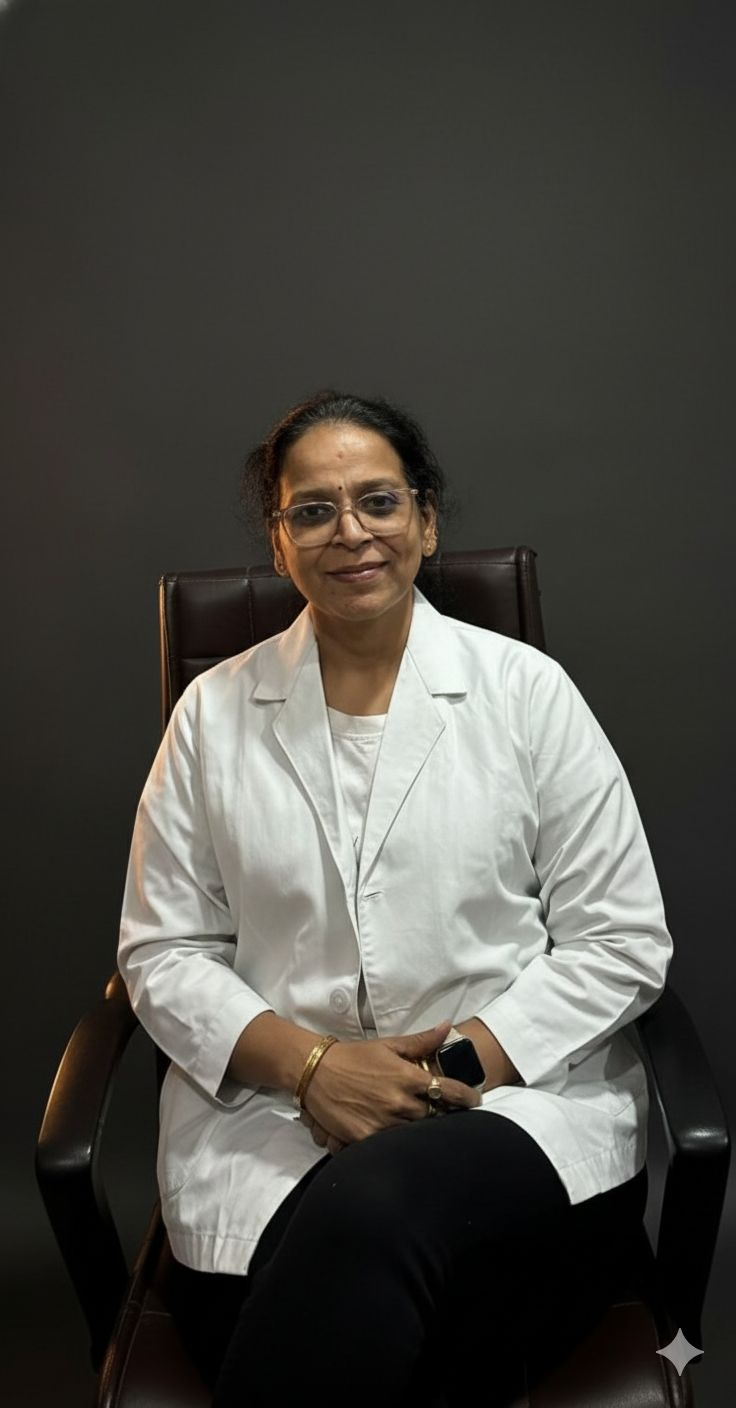
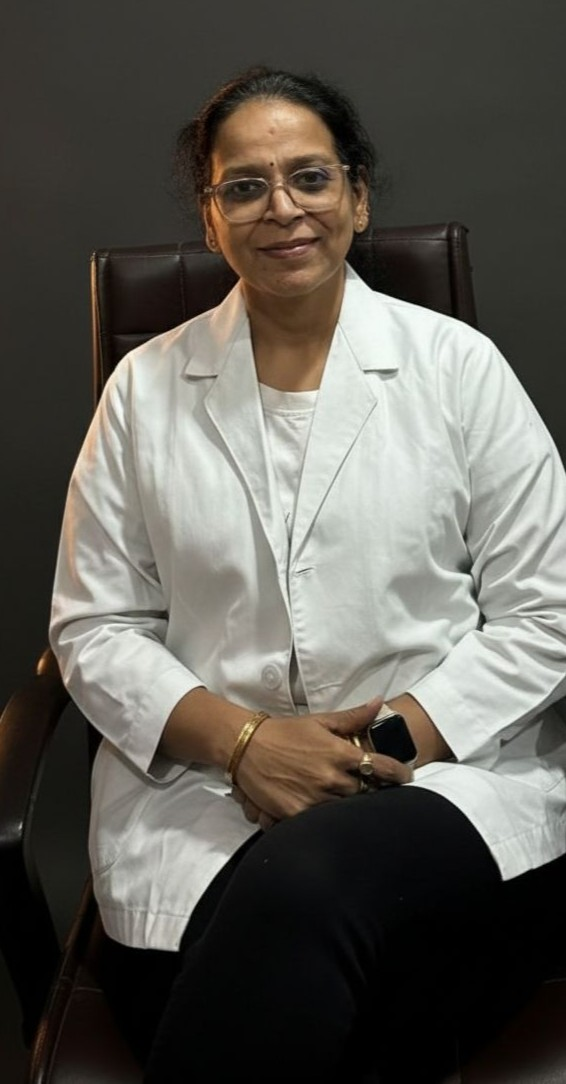
updated doctor images

diff --git a/index.html b/index.html
@@ -595,7 +595,7 @@
          data-qual="Medical Professional & Fitness Enthusiast" 
          data-img="./assets/images/Coaches photos/Dr Sushma.jpg">
         <div class="h-80 overflow-hidden bg-slate-100">
-            <img src="./assets/images/Coaches photos/Dr Sushma2.jpg" class="w-full h-full object-cover object-top transition-transform duration-500 group-hover:scale-105 pointer-events-none">
+            <img src="./assets/images/Coaches photos/Dr Sushma.jpg" class="w-full h-full object-cover object-top transition-transform duration-500 group-hover:scale-105 pointer-events-none">
         </div>
         <div class="p-8 flex-1 flex flex-col justify-between">
             <div>
